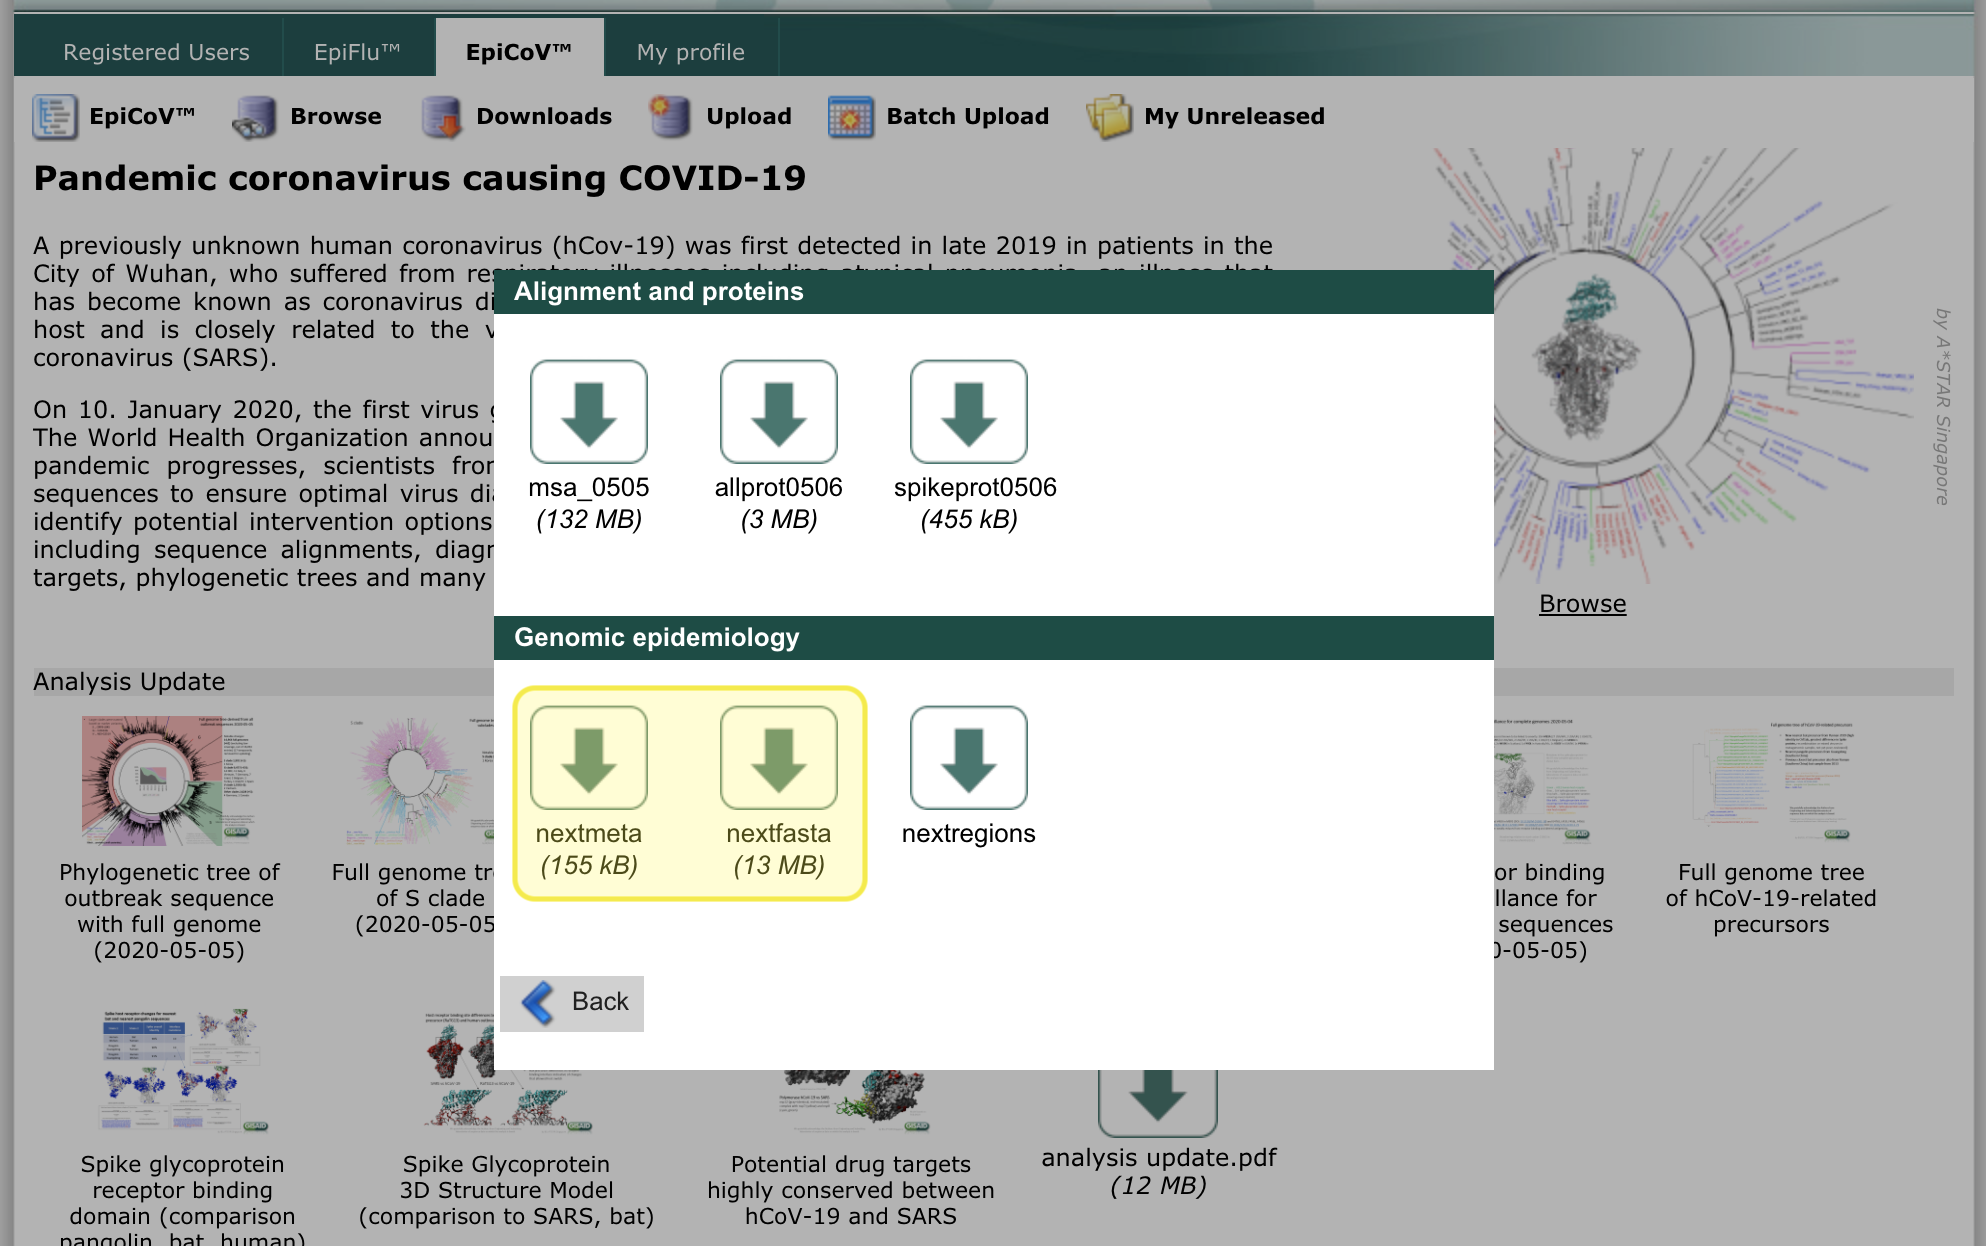
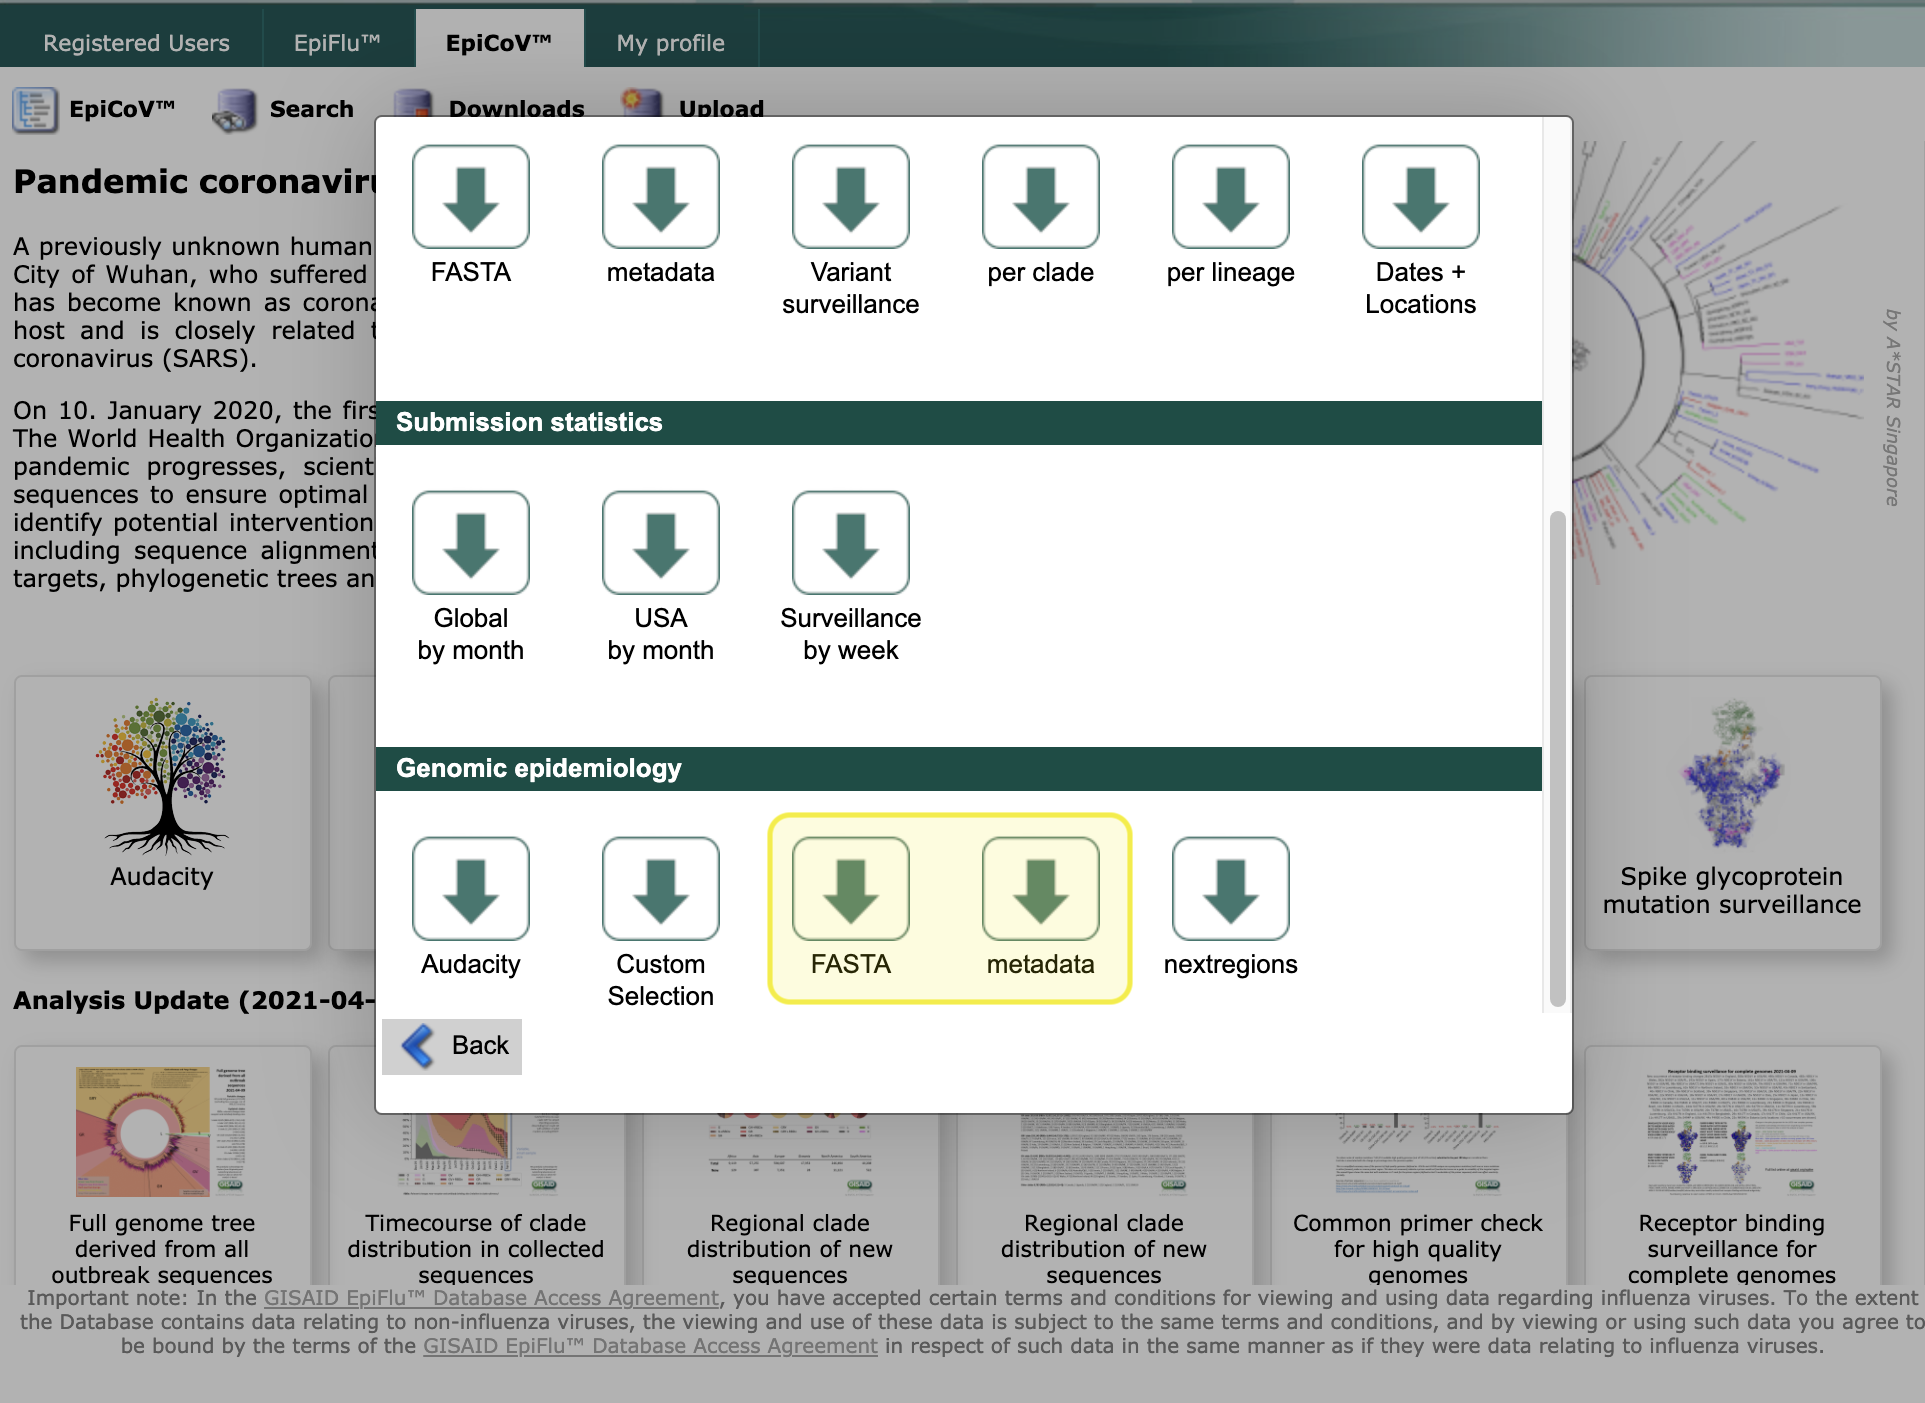
Update instructions on downloading flat files from GISAID

diff --git a/docs/data-prep.md b/docs/data-prep.md
@@ -18,7 +18,7 @@ To use Nextstrain to analyze your own data, you'll need to prepare two files:
 1. A `fasta` file with viral genomic sequences
 2. A corresponding `tsv` file with metadata describing each sequence
 
-We've created an example dataset in the `data` directory. This consists of a fasta file with viral genomes sourced from Genbank, and a corresponding TSV with metadata describing these sequences.
+We've created an example dataset in the `data` directory. This consists of a compressed FASTA file with viral genomes sourced from Genbank (`example_sequences.fasta.gz`) and a corresponding TSV with metadata describing these sequences (`example_metadata.tsv`).
 
 ### Formatting your sequence data
 
@@ -28,8 +28,8 @@ The first 2 lines in `data/sequences.fasta` look like this:
 ATTAAAGGTTTATACCTTCCCAGGTAACAAACCAACCAACTTTCGATCTCTTGTAGATC.....
 ```
 **The first line is the `strain` or `name` of the sequence.**
-Names in FASTA files always start with the `>` character (this is not part of the name), and may not contain spaces or `()[]{}|#><`.
-Note that "strain" here carries no biological or functional significance and should be thought of as synonymous with "sample."
+Lines with names in FASTA files always start with the `>` character (this is not part of the name), and may not contain spaces or `()[]{}|#><`.
+Note that "strain" here carries no biological or functional significance and should largely be thought of as synonymous with "sample."
 
 The sequence itself is a **[consensus genome](https://en.wikipedia.org/wiki/Consensus_sequence#:~:text=In%20molecular%20biology%20and%20bioinformatics,position%20in%20a%20sequence%20alignment.)**.
 
@@ -61,10 +61,10 @@ A valid metadata file must include the following fields:
 
 | Field | Example value | Description | Formatting |
 |---|---|---|---|
-|`strain` or `name`| `NewZealand/01/2020` | Sample name / ID | Each header in the fasta file must exactly match a `strain` value in the metadata. Characters `()[]{}|#><` are disallowed |
+|`strain` or `name`| `Australia/NSW01/2020` | Sample name / ID | Each header in the fasta file must exactly match a `strain` value in the metadata. Characters `()[]{}|#><` are disallowed |
 |`date` | `2020-02-27`, `2020-02-XX`, `2020-XX-XX` | Date of _sampling_ | `YYYY-MM-DD`; ambiguities can be indicated with `XX`|
 |`virus`|`ncov`|Pathogen name|Needs to be consistent|
-|`region`|"Africa", "Asia", "Europe", "North America", "Oceania" or "South America"|Global region of _sampling_ ||
+|`region`|`Africa`, `Asia`, `Europe`, `North America`, `Oceania` or `South America`|Global region of _sampling_ ||
 
 Please be aware that **our current pipeline will filter out any genomes with an unknown date - you can change this in your own pipeline.**
 
@@ -103,16 +103,15 @@ Making inferences about a sample's origin is strongly dependent on the makeup of
 
 To address this, we strongly recommend adding contextual background sequences to your dataset. To make this easier, we provide a continually-updated dataset, pre-formatted for Nextstrain, through [GISAID](https://gisaid.org). To download this dataset:
 
-1. Log into GISAID's EpiCoV site
-2. Click "Downloads" to bring up a modal window
-3. In this window click on "nextmeta" to download the file `nextstrain_metadata.tsv.bz2`.
-This should be decompressed and saved as `data/global_metadata.tsv`.
-4. Then, in this window click on "nextfasta" to download the file `nextstrain_sequences.fasta.bz2`.
-This should be decompressed and saved as `data/global_sequences.fasta`.
+1. Register for a GISAID account if you don't have one already and then log into GISAID's EpiCoV database.
+2. Click "Downloads" to bring up a modal window.
+3. If you scroll down to the bottom of this modal window you should see a heading of "Genomic epidemiology" that includes entries "FASTA" and "metadata".
+4. Click on "metadata" to download a compressed file of the form `metadata_2021-04-08_08-30.tsv.gz`. Uncompress this file and save as `data/gisaid_metadata.tsv`.
+5. Click on "FASTA" to download a compressed file of the form `sequences_2021-04-08_08-30.fasta.gz`. Keep this file compressed and save as `data/gisaid_sequences.fasta.gz`.
 
 ![gisaid_downloads](images/gisaid_downloads.png)
 
-You can concatenate these files with your own; make sure the TSV fields are in the same order.
+GISAID maintains multiple tiers of access and many users of GISAID will initially lack access to the "FASTA" and "metadata" under "Genomic epidemiology" (the entries will just be absent). If you find that these files are missing for you, you'll need to email GISAID at hCoV-19@gisaid.org to request access to the specific "FASTA" and "metadata" files under "Genomic epidemiology". Somewhat confusingly, there are separate "FASTA" and "metadata" entries listed under the heading "Download packages". These files are a slightly different format and are not directly compatible with the Nextstrain ncov pipeline. Please feel free to let us know at [discussion.nextstrain.org](https://discussion.nextstrain.org/t/nextmeta-and-nextfasta-not-on-gisaid/224) if you're having difficulties accessing these files.
 
 The Nextstrain team uses this pipeline to include the latest sequences and metadata from GISAID in our builds: [nextstrain/ncov-ingest](https://github.com/nextstrain/ncov-ingest).
 
@@ -236,7 +235,6 @@ Typically written as "LastName et al".
 In our example, this is "Storey et al".
 This will show up in auspice when clicking on the tip in the tree which brings up an info box.
 
-
 **Column 21: `url`**
 
 The URL, if available, pointing to the genome data.
@@ -250,7 +248,6 @@ The URL, if available, of the publication announcing these genomes.
 
 Date the genome was submitted to a public database (most often GISAID).
 In `YYYY-MM-DD` format (see `date` for more information on this formatting).
-
 
 ## [Previous Section: Setup and installation](setup.md)
 ## [Next Section: Orientation: workflow](orientation-workflow.md)
